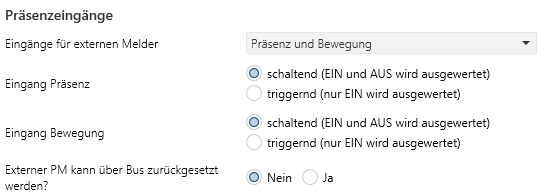
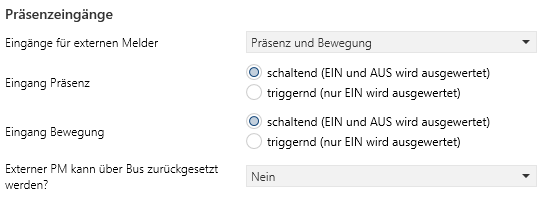
Features: - Reset can be now 0 or 1 - Presence/Move can be also keep alive signal

diff --git a/src/PresenceChannel.cpp b/src/PresenceChannel.cpp
@@ -260,6 +260,7 @@ void PresenceChannel::processInputKo(GroupObject &iKo, int8_t iKoIndex)
     if (pCurrentState & STATE_RUNNING) {
         // search for correct KO
         bool lIsTrigger;
+        bool lIsKeepAlive;
         uint8_t lKoIndex = (iKoIndex >= 0) ? iKoIndex : calcKoIndex(iKo.asap());
         bool lValue = iKo.value(getDPT(VAL_DPT_1));
         switch (lKoIndex)
@@ -276,12 +277,14 @@ void PresenceChannel::processInputKo(GroupObject &iKo, int8_t iKoIndex)
             case PM_KoKOpPresence1:
                 // which kind of presence information do we get
                 lIsTrigger = paramBit(PM_pPresenceType, PM_pPresenceTypeMask);
-                startPresence(lIsTrigger, iKo);
+                lIsKeepAlive = paramBit(PM_pPresenceKeepAlive, PM_pPresenceKeepAliveMask);
+                startPresence(lIsTrigger, lIsKeepAlive, iKo);
                 break;
             case PM_KoKOpPresence2:
                 // change of presence information
                 lIsTrigger = paramBit(PM_pMoveType, PM_pMoveTypeMask);
-                startPresence(lIsTrigger, iKo);
+                lIsKeepAlive = paramBit(PM_pMoveKeepAlive, PM_pMoveKeepAliveMask);
+                startPresence(lIsTrigger, lIsKeepAlive, iKo);
                 break;
             case PM_KoKOpSetAuto:
                 // Automatic mode
@@ -626,19 +629,22 @@ void PresenceChannel::startHardwareBrightness()
 }
 
 // helper entry point for presence calculation initiated by a KO
-void PresenceChannel::startPresence(bool iIsTrigger, GroupObject &iKo)
+void PresenceChannel::startPresence(bool iIsTrigger, bool iIsKeepAlive, GroupObject &iKo)
 {
     bool lPresenceValue = iKo.value(getDPT(VAL_DPT_1));
+    bool lAllowStartPresence = !iIsKeepAlive || (pCurrentState & STATE_PRESENCE);
     // we ignore explicitly OFF telegrams of triggered input
     if (iIsTrigger && !lPresenceValue)
         return;
-    startPresence(false, false);
+    if (lAllowStartPresence)
+        startPresence(false, false);
     if (iIsTrigger && lPresenceValue)
     {
         // triggered input sent a 1, we immediately set it to 0
         iKo.value(false, getDPT(VAL_DPT_1));
         // afterwards we call ourself to evaluate 0 action
-        startPresence(false, false);
+        if (lAllowStartPresence)
+            startPresence(false, false);
     }
 }
 
@@ -830,10 +836,14 @@ void PresenceChannel::processLeaveRoom()
                 endLeaveRoom();
             break;
         case VAL_PM_LRM_DowntimeReset:
+            {
             // we send a reset to external PM and go to normal mode
-            getKo(PM_KoKOpResetExternalPM)->value(true, getDPT(VAL_DPT_1));
+            uint8_t lResetTrigger = paramByte(PM_pExternalSupportsReset, PM_pExternalSupportsResetMask, PM_pExternalSupportsResetShift);
+            if (lResetTrigger)
+                getKo(PM_KoKOpResetExternalPM)->value((lResetTrigger == 1), getDPT(VAL_DPT_1));
             // TODO: reset internal PIR, as soon as implemented
             endLeaveRoom();
+            }
             break;
         case VAL_PM_LRM_MoveDowntime:
         case VAL_PM_LRM_MoveDowntimeReset:

diff --git a/src/PMmodul.h b/src/PMmodul.h
@@ -912,9 +912,6 @@
 #define PM_pBrightnessIntern          2      // 1 Bit, Bit 6
 #define     PM_pBrightnessInternMask 0x40
 #define     PM_pBrightnessInternShift 6
-#define PM_pExternalSupportsReset     2      // 1 Bit, Bit 5
-#define     PM_pExternalSupportsResetMask 0x20
-#define     PM_pExternalSupportsResetShift 5
 #define PM_pLockType                  2      // 2 Bits, Bit 4-3
 #define     PM_pLockTypeMask 0x18
 #define     PM_pLockTypeShift 3
@@ -978,6 +975,15 @@
 #define PM_pLeaveRoomModeReset        5      // 3 Bits, Bit 7-5
 #define     PM_pLeaveRoomModeResetMask 0xE0
 #define     PM_pLeaveRoomModeResetShift 5
+#define PM_pExternalSupportsReset     5      // 2 Bits, Bit 4-3
+#define     PM_pExternalSupportsResetMask 0x18
+#define     PM_pExternalSupportsResetShift 3
+#define PM_pPresenceKeepAlive         5      // 1 Bit, Bit 2
+#define     PM_pPresenceKeepAliveMask 0x04
+#define     PM_pPresenceKeepAliveShift 2
+#define PM_pMoveKeepAlive             5      // 1 Bit, Bit 1
+#define     PM_pMoveKeepAliveMask 0x02
+#define     PM_pMoveKeepAliveShift 1
 #define PM_pChannelDelayBase          6      // 2 Bits, Bit 7-6
 #define     PM_pChannelDelayBaseMask 0xC0
 #define     PM_pChannelDelayBaseShift 6
@@ -1364,6 +1370,6 @@
 #define PM_KoKOpResetExternalPM 19
 
 #define MAIN_OpenKnxId 0xA0
-#define MAIN_ApplicationNumber 0
-#define MAIN_ApplicationVersion 16
+#define MAIN_ApplicationNumber 1
+#define MAIN_ApplicationVersion 99
 #define MAIN_OrderNumber "OpenKnxPresence"

diff --git a/src/PresenceChannel.h b/src/PresenceChannel.h
@@ -151,7 +151,7 @@ class PresenceChannel
     bool getHardwarePresence(bool iJustMove = false);
     void startHardwarePresence();
     void startPresenceTrigger(bool iManual);
-    void startPresence(bool iIsTrigger, GroupObject &iKo);
+    void startPresence(bool iIsTrigger, bool iIsKeepAlive, GroupObject &iKo);
     void startPresence(bool iForce, bool iManual);
     void processPresence();
     void endPresence(bool iSend = true);

diff --git a/doc/Applikationbeschreibung-Praesenz.md b/doc/Applikationbeschreibung-Praesenz.md
@@ -25,6 +25,12 @@ Alle Logikkanäle sind in der [Applikation Logik](https://github.com/OpenKNX/OAM
 
 Im folgenden werden Änderungen an dem Dokument erfasst, damit man nicht immer das Gesamtdokument lesen muss, um Neuerungen zu erfahren.
 
+05.11.2022: Firmware 1.1, Applikation 1.1
+
+* NEU: Wenn ein externer PM zurückgesetzt werden kann, kann man jetzt wählen, ob dieser mit einem EIN- oder einem AUS-Signal zurückgesetzt wird
+* NEU: Ein externer Präsenz- oder Bewegungseingang kann jetzt auch dazu genutzt werden, den aktuellen Präsenzzustand zu verlängern, aber nicht, um Präsenz einzuschalten.
+* Die enthaltene Logik hat den Firmware-Stand 0.12.2
+
 20.10.2022: Firmware 1.0, Applikation 1.0
 
 * Initiales Release
@@ -515,7 +521,28 @@ Der externe Sensor muss sicherstellen, dass er valide Signale häufiger sendet a
 
 > Achtung: Aus technischen Gründen wird bei triggerndem Betrieb das Eingangs-KO nach dem Empfangen einer 1 sofort wieder auf 0 gesetzt. Da dies ein Eingang ist, hat das üblicherweise keinerlei Auswirkungen. 
 
-## Ausgänge
+### **Externer PM kann über Bus zurückgesetzt werden**
+
+Manche externe PM können über ein KO zurückgesetzt werden. Aus wenn es in der Applikation als "Reset" bezeichnet wird, ist damit die die ETS-Funktion "Gerät zurücksetzen" gemeint, sondern die Möglichkeit, den PM in einen Zustand zu versetzen, der die aktuelle Präsenzerkennung und alle zugehörigen Nachlaufzeiten zurücksetzt und unmittelbar auf die nächste erkannte Bewegung bzw. Präsenz ein Signal schickt. Besitzt der externe Melder einen solchen Eingang, kann dieser für die erweiterten Funkionen wie "Kurzzeitpräsenz" oder "Raum verlassen" genutzt werden. 
+
+In dem Eingabefeld gibt man an, ob der externe PM mit einem EIN-Signal oder einem AUS-Signal zurückgesetzt werden kann. 
+
+Es erscheint ein KO "Externen PM zurücksetzen", das mit dem "Zurücksetzen"-Eingang des externen PM verbunden werden muss.
+
+#### **Nein**
+
+Wird dieser Wert in der Auswahlbox gewählt, kann der externe PM nicht über ein Telegramm zurückgesetzt werden.
+
+#### **Mit einem EIN-Signal**
+
+Wird dieser Wert in der Auswahlbox gewählt, kann der externe PM mit einem EIN-Signal zurückgesetzt werden. Der VPM schickt zu gegebener Zeit einen EIN-Trigger an den externen PM.
+
+#### **Mit einem AUS-Signal**
+
+Wird dieser Wert in der Auswahlbox gewählt, kann der externe PM mit einem 
+AUS-Signal zurückgesetzt werden. Der VPM schickt zu gegebener Zeit einen AUS-Trigger an den externen PM.
+
+## **Ausgänge**
 
 Hier definiert man die Ausgänge für diesen Kanal.
 
